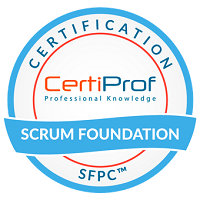
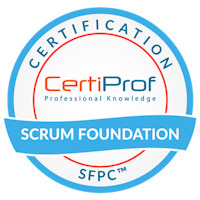
fotos actualizadas

diff --git a/index.html b/index.html
@@ -75,7 +75,7 @@
                         <p>
                             Me esfuerzo continuamente por mantenerme actualizado en tecnologías emergentes, desarrollando soluciones innovadoras y promoviendo un aprendizaje práctico que prepare a las personas para afrontar los desafíos del futuro.
                         </p>
-                        <img src="images/1234.jpg" alt="foto" class="img-fluid">
+                        <img src="images/1234.png" alt="foto" class="img-fluid">
                     </div>
                 </div>
             </div><!--container aBOUT-->
